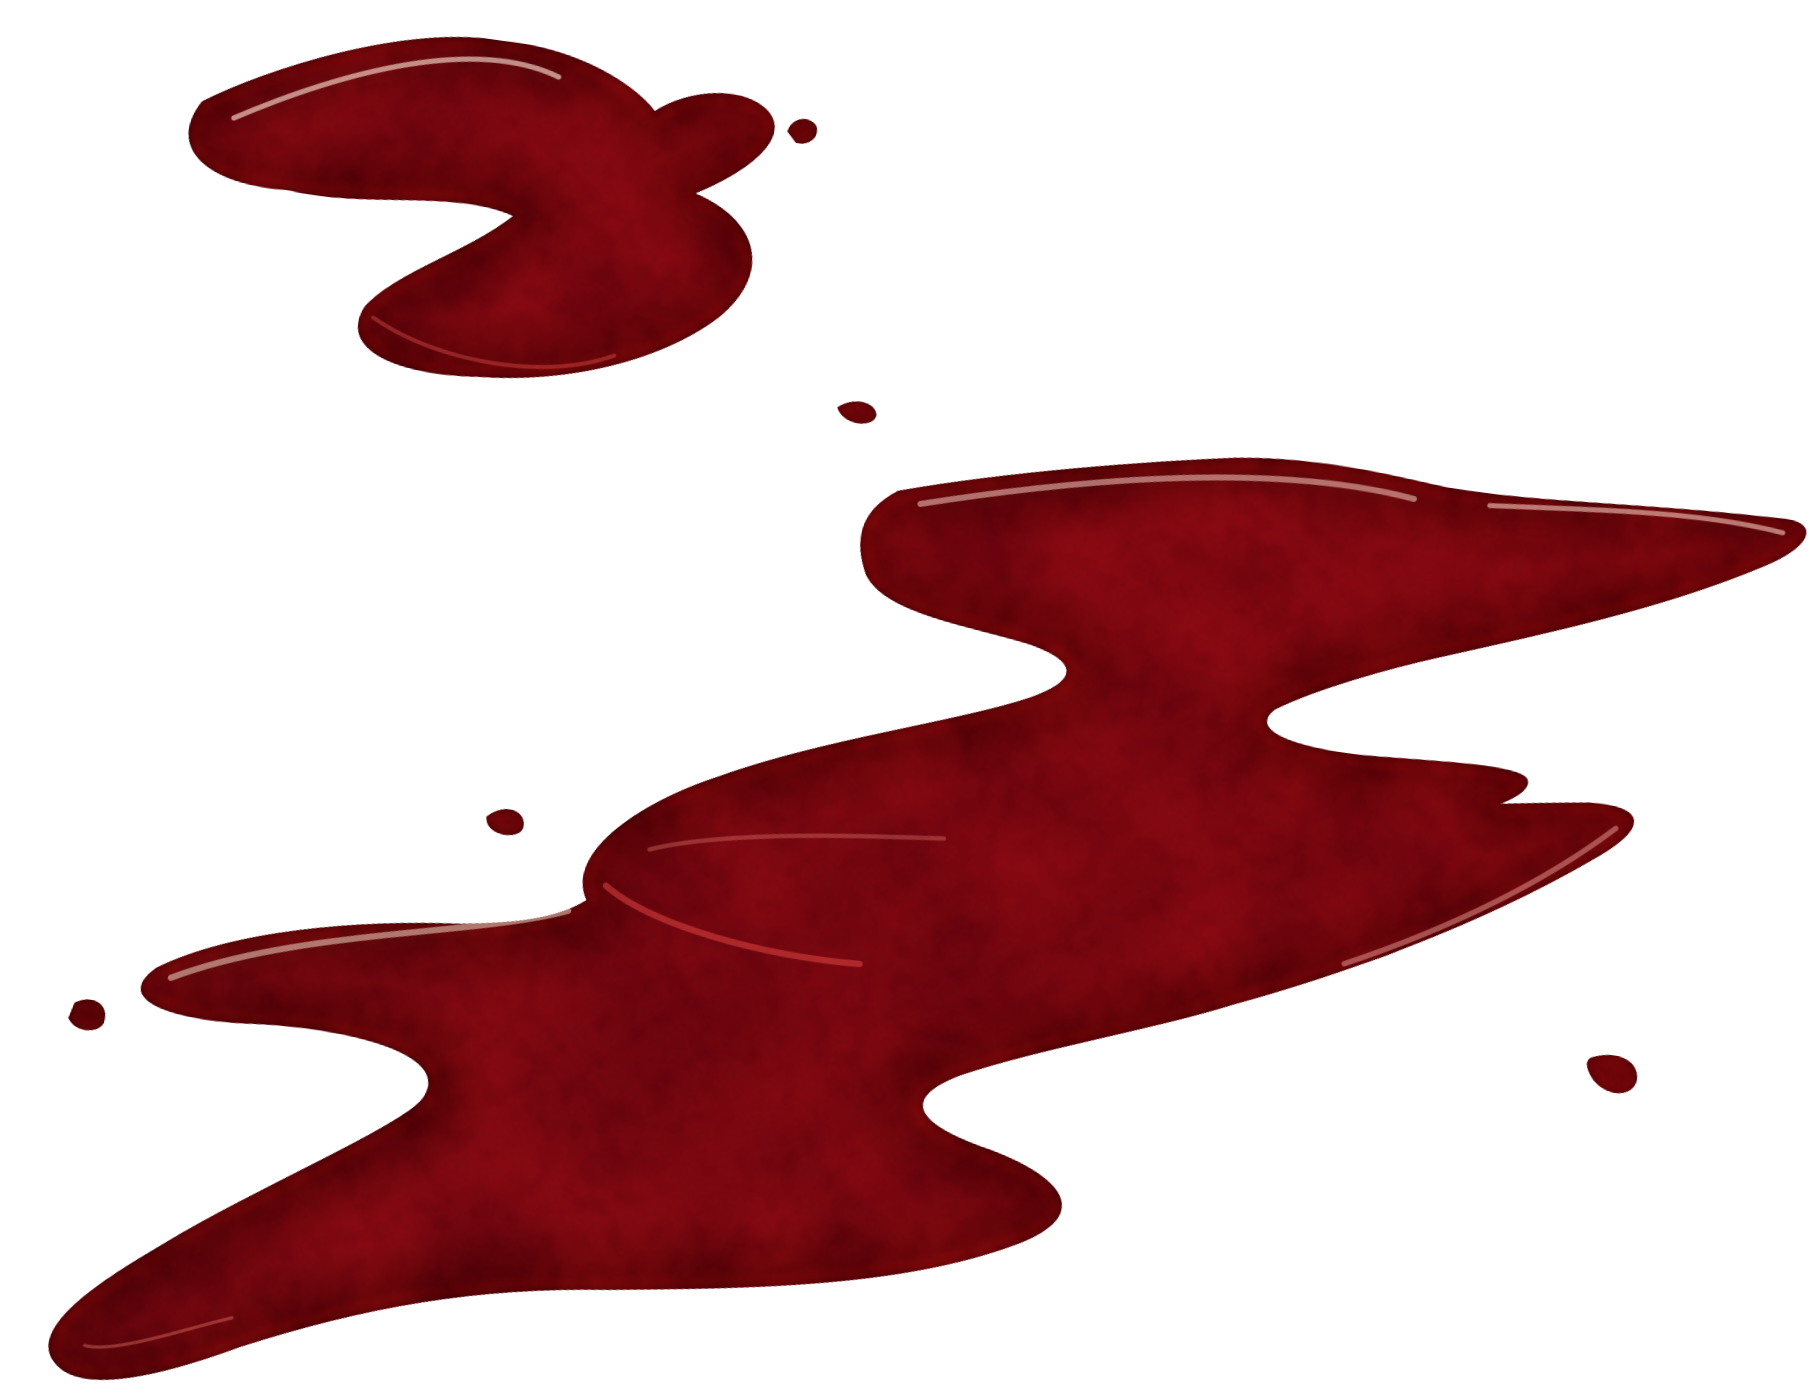
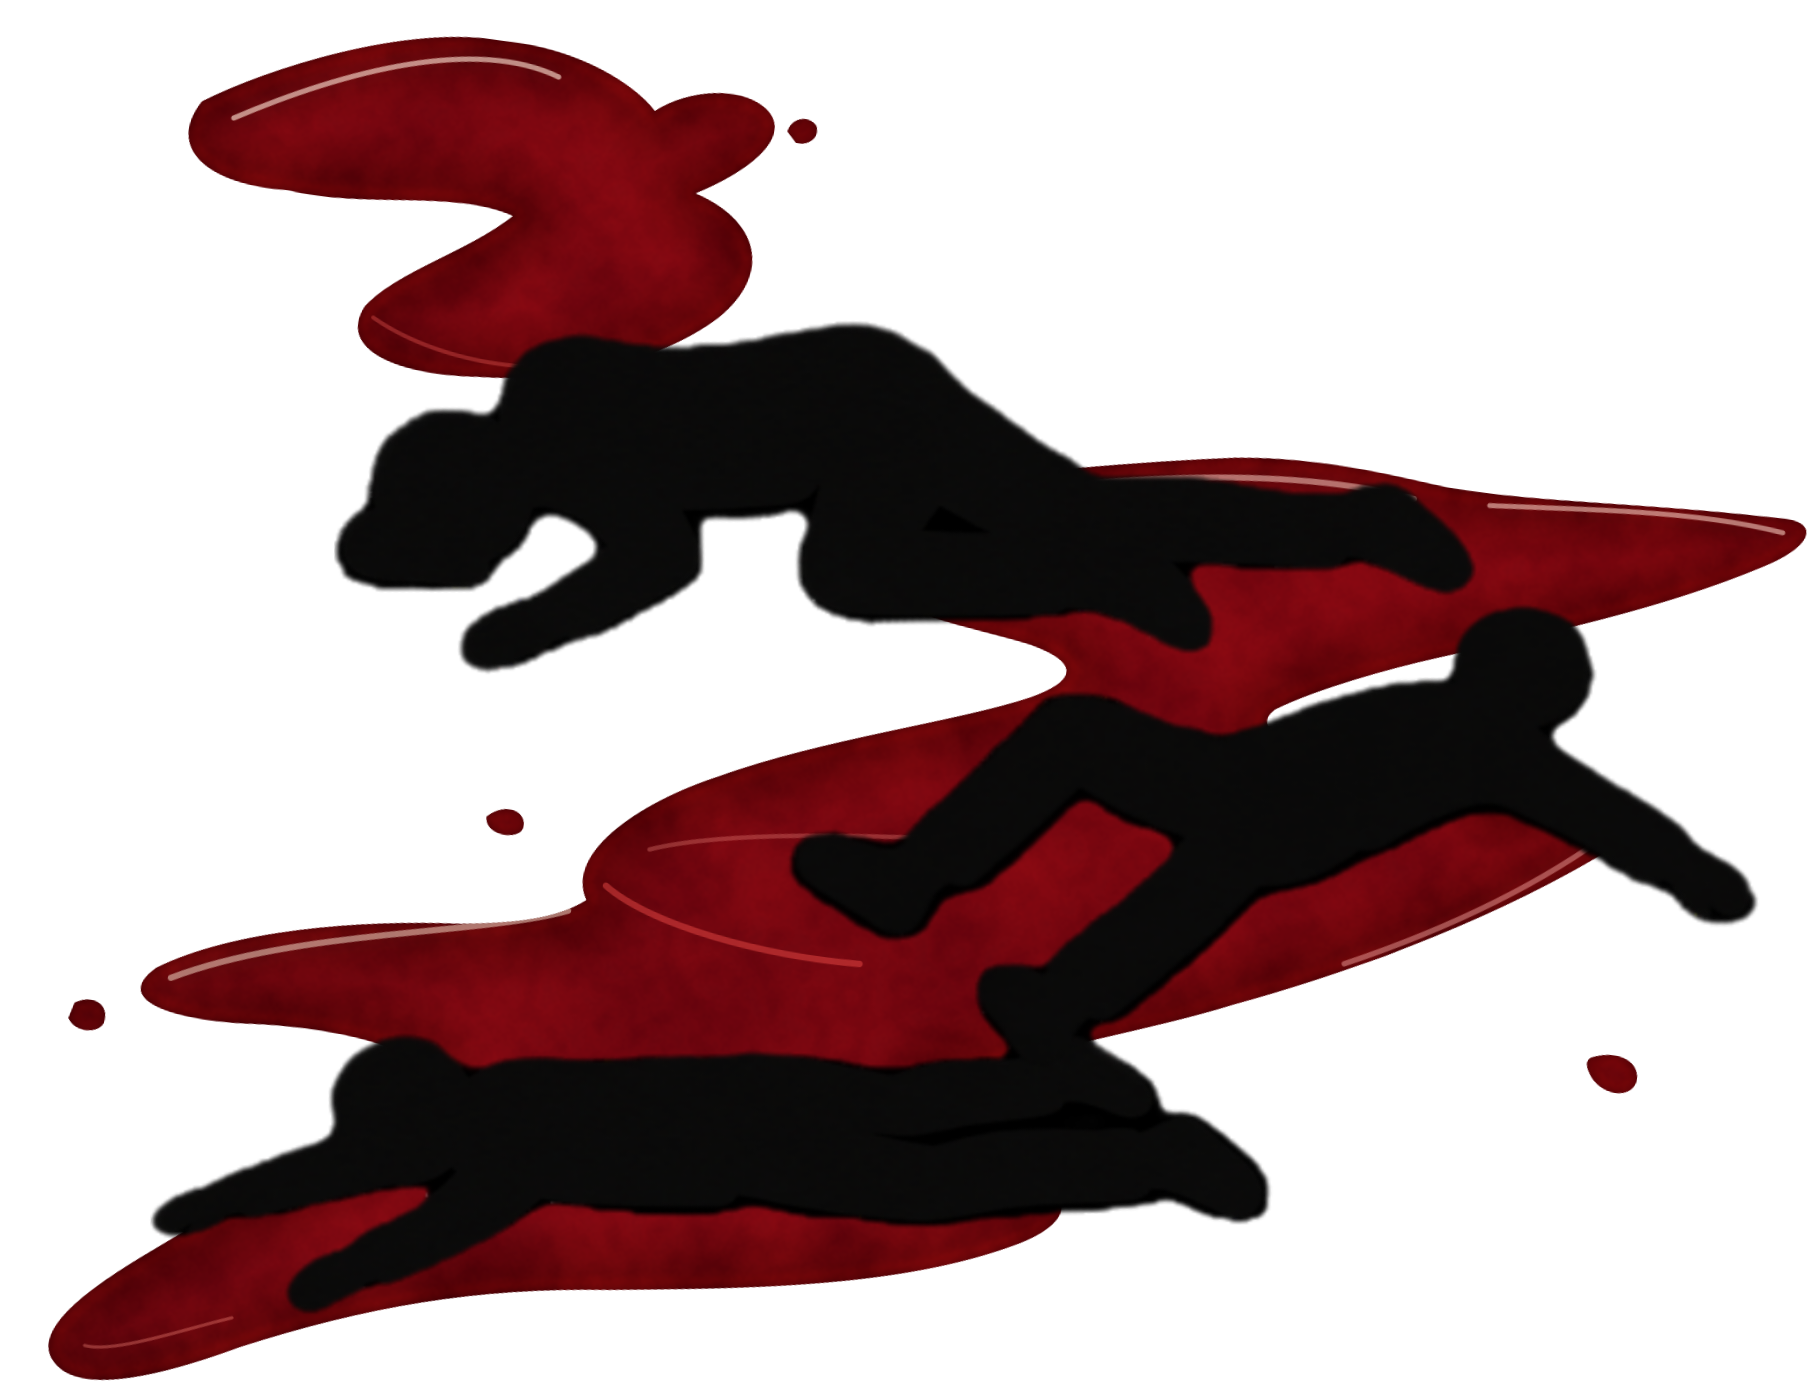
Restore supplied infantry remains and strengthen Dante apparitions in v1.10.69

Changed region(s): [[0.0618, 0.2161, 0.989, 0.9569]]

diff --git a/game/assets/saves.js b/game/assets/saves.js
@@ -2,7 +2,7 @@
 const SAVE_SLOTS=5;
 function saveKey(slot=0){return slot===0?'terha-v1':'terha-slot-'+slot}
 function readSave(slot=0){try{const s=JSON.parse(localStorage.getItem(saveKey(slot)));return s&&Array.isArray(s.units)&&Array.isArray(s.cities)&&[168,181].includes(s.cities.length)?s:null}catch(e){return null}}
-function snapshot(){return{appVersion:'1.10.68',danteExpansionSeeded,unitBalance42Schema:UNIT_BALANCE_42_SCHEMA,defenseSchema:2,campaignPatchSchema:1,aiTransportGrantTurn,shorelineSchema:SHORELINE_SCHEMA,cityPlacementSchema:CITY_PLACEMENT_SCHEMA,cityRosterSchema:CITY_ROSTER_SCHEMA,tierBalanceSchema:TIER_BALANCE_SCHEMA,navalSchema:1,missileBases,navalUid,food,foodTurn,industrySchema:INDUSTRY_SCHEMA,oil,strategicResearch,defeatedNotices:[...defeatedNotices],balanceSchema:BALANCE_SCHEMA,ruleSchema:RULE_SCHEMA,diplomacy,unitSchema:UNIT_SCHEMA,savedAt:Date.now(),units,cities,money,tech,turn,player,difficulty,uid,owners:tiles.map(t=>t.owner),cam,activeSlot}}
+function snapshot(){return{appVersion:'1.10.69',danteExpansionSeeded,unitBalance42Schema:UNIT_BALANCE_42_SCHEMA,defenseSchema:2,campaignPatchSchema:1,aiTransportGrantTurn,shorelineSchema:SHORELINE_SCHEMA,cityPlacementSchema:CITY_PLACEMENT_SCHEMA,cityRosterSchema:CITY_ROSTER_SCHEMA,tierBalanceSchema:TIER_BALANCE_SCHEMA,navalSchema:1,missileBases,navalUid,food,foodTurn,industrySchema:INDUSTRY_SCHEMA,oil,strategicResearch,defeatedNotices:[...defeatedNotices],balanceSchema:BALANCE_SCHEMA,ruleSchema:RULE_SCHEMA,diplomacy,unitSchema:UNIT_SCHEMA,savedAt:Date.now(),units,cities,money,tech,turn,player,difficulty,uid,owners:tiles.map(t=>t.owner),cam,activeSlot}}
 function save(slot=0){if(!Number.isInteger(slot)||slot<0||slot>SAVE_SLOTS)return false;try{if(slot>0)activeSlot=slot;localStorage.setItem(saveKey(slot),JSON.stringify(snapshot()));return true}catch(e){toast('저장 공간이 부족하거나 저장할 수 없습니다');return false}}
 function load(slot=0){const s=readSave(slot);if(!s||!Array.isArray(s.owners)||s.owners.length!==tiles.length)return false;try{({units,cities,money,tech,turn,player,difficulty,uid,cam}=s);activeSlot=slot||s.activeSlot||0;tiles.forEach((t,i)=>{t.owner=s.owners[i];t.city=-1});cities.forEach(q=>tiles[q.tile].city=q.id);migrateArmy(s);selected=null;panelOpen=false;airTarget=null;aimMotions.clear();fireMotions.clear();fx=[];moving=[];reach.clear();started=true;busy=false;menuMode=false;refreshSelection();$('modal').style.display='none';updateHUD();if(slot>0)save();toast(slot>0?'슬롯 '+slot+' 작전을 불러왔습니다':'자동 저장된 작전을 불러왔습니다');return true}catch(e){return false}}
 function migrateLegacySaves(){try{if(localStorage.getItem('terha-slots-migrated'))return;const s=readSave();if(s&&!readSave(1)){s.savedAt=s.savedAt||Date.now();localStorage.setItem(saveKey(1),JSON.stringify(s))}localStorage.setItem('terha-slots-migrated','1')}catch(e){}}

diff --git a/game/assets/ambience.js b/game/assets/ambience.js
@@ -48,5 +48,5 @@ let danteGhostState={alpha:0,last:null,clock:0,checked:-Infinity,city:null,near:
 function resetDanteGhosts(){danteGhostState={alpha:0,last:null,clock:0,checked:-Infinity,city:null,near:false}}
 function danteThreat(){const city=cities.find(q=>q.origin===1&&q.capital);return{city,near:!!city&&units.some(u=>u.hp>0&&!u.carriedBy&&atWar(1,u.f)&&distance(city.tile,u.tile)<=3)}}
 function updateDanteGhosts(now){const state=danteGhostState,dt=state.last===null?0:Math.max(0,Math.min(100,now-state.last));state.last=now;state.clock+=dt;if(now<state.checked||now-state.checked>=150){const threat=danteThreat();state.city=threat.city;state.near=threat.near;state.checked=now}state.alpha=Math.max(0,Math.min(1,state.alpha+(started&&state.near?dt/3500:-dt/1800)));return state}
-function drawDanteGhost(p,side){if(!danteGhostArt.idleReady)return;const h=S*3,w=h*danteGhostArt.idle.naturalWidth/danteGhostArt.idle.naturalHeight;ctx.save();ctx.globalAlpha=danteGhostState.alpha*(.21+.28*(.5+.5*Math.sin(danteGhostState.clock*.0018)));ctx.translate(p.x,p.y);ctx.scale(side<0?1:-1,1);ctx.drawImage(danteGhostArt.idle,-w/2,-h*.82,w,h);ctx.restore()}
-const danteAmbientScene=addAmbientScene;addAmbientScene=function(scene,now){danteAmbientScene(scene,now);const state=updateDanteGhosts(now);if(!state.city||state.alpha<=0)return;const t=tiles[state.city.tile];for(const side of [-1,1]){const i=index(t.x+side,t.y);if(i<0)continue;const p=pxy(i);scene.push({kind:'ghost',id:20+side,p,paint:()=>drawDanteGhost(p,side)})}};
+function drawDanteGhost(p,side){if(!danteGhostArt.idleReady)return;const h=S*3,w=h*danteGhostArt.idle.naturalWidth/danteGhostArt.idle.naturalHeight;ctx.save();ctx.globalAlpha=danteGhostState.alpha*(.30+.35*(.5+.5*Math.sin(danteGhostState.clock*.0018)));ctx.translate(p.x,p.y);ctx.scale(side<0?1:-1,1);ctx.drawImage(danteGhostArt.idle,-w/2,-h*.82,w,h);ctx.restore()}
+const danteAmbientScene=addAmbientScene;addAmbientScene=function(scene,now){danteAmbientScene(scene,now);const state=updateDanteGhosts(now);if(!state.city||state.alpha<=0)return;const t=tiles[state.city.tile];for(const side of [-1,1]){const i=index(t.x+side,t.y);if(i<0)continue;const p=pxy(i);scene.push({kind:'ghost',id:20+side,p:{x:p.x,y:p.y+.02},paint:()=>drawDanteGhost(p,side)})}};

diff --git a/game/assets/aftermath-carrier.js b/game/assets/aftermath-carrier.js
@@ -1,6 +1,6 @@
 'use strict';
 const infantryRemainsArt=loadBaekArt('infantry-remains.png'),baekCarrierArt=loadBaekArt('baek-carrier.png');
-function drawInfantryRemains(e,t){if(!infantryRemainsArt.idleReady)return;ctx.save();ctx.globalAlpha=Math.max(0,1-t);ctx.drawImage(infantryRemainsArt.idle,e.x-26,e.y-16,52,52*1393/1812);ctx.restore()}
+function drawInfantryRemains(e,t){if(!infantryRemainsArt.idleReady)return;ctx.save();ctx.globalAlpha=Math.min(1,Math.max(0,(1-t)/.55));const w=64,h=w*infantryRemainsArt.idle.naturalHeight/infantryRemainsArt.idle.naturalWidth;ctx.drawImage(infantryRemainsArt.idle,e.x-w/2,e.y-h/2,w,h);ctx.restore()}
 const remainsKill=kill;kill=function(u){if(!units.includes(u))return;const show=TYPES[u.type]?.branch==='infantry'&&!u.carriedBy&&tiles[u.tile].owner>=0,p=pxy(u.tile),before=fx.length;const result=remainsKill(u);if(show){fx=fx.slice(0,before).concat(fx.slice(before).filter(e=>e.kind!=='wreck'));fx.push({kind:'infantryRemains',x:p.x,y:p.y,start:performance.now(),duration:3000})}return result};
 function isBaekCarrier(u){return u.f===0&&u.type===25}
 function baekCarrierFacing(u){return u.carrierFacing===-1?-1:u.carrierFacing===1?1:Number.isFinite(u.angle)&&Math.cos(u.angle)<0?-1:1}

diff --git a/game/assets/app-shell.js b/game/assets/app-shell.js
@@ -1,5 +1,5 @@
 'use strict';
-const APP_VERSION='1.10.68',APP_SETTINGS_KEY='terha-settings',APP_RECORDS_KEY='terha-conquests';
+const APP_VERSION='1.10.69',APP_SETTINGS_KEY='terha-settings',APP_RECORDS_KEY='terha-conquests';
 function readAppJSON(key,fallback){try{return JSON.parse(localStorage.getItem(key))??fallback}catch{return fallback}}
 const savedAppSettings=readAppJSON(APP_SETTINGS_KEY,{});
 const appSettings={music:Number.isFinite(savedAppSettings.music)?Math.min(1,Math.max(0,savedAppSettings.music)):.65,effects:Number.isFinite(savedAppSettings.effects)?Math.min(1,Math.max(0,savedAppSettings.effects)):1,language:savedAppSettings.language==='en'?'en':'ko'};

diff --git a/build.py b/build.py
@@ -2,7 +2,7 @@
 """Repackage the retained Android shell with current game assets and original signing key."""
 import pathlib,zipfile,struct,subprocess,os,urllib.request
 ROOT=pathlib.Path(__file__).resolve().parent;os.chdir(ROOT)
-VERSION='1.10.68';CODE=112
+VERSION='1.10.69';CODE=113
 T=ROOT/'tools';T.mkdir(exist_ok=True)
 for name,url in [('ecj.jar','https://repo.maven.apache.org/maven2/org/eclipse/jdt/ecj/3.33.0/ecj-3.33.0.jar'),('apksig.jar','https://repo.maven.apache.org/maven2/com/android/tools/build/apksig/2.3.0/apksig-2.3.0.jar')]:
  if not (T/name).exists():urllib.request.urlretrieve(url,T/name)

diff --git a/README-ko.md b/README-ko.md
@@ -1,3 +1,8 @@
+## v1.10.69 수정
+
+- 보병 사망 이미지를 첨부 원본(시신 실루엣 포함)으로 교체하고 표시 크기와 초반 불투명도를 보강했습니다.
+- 단테스시티 양옆 1타일 위치의 귀신 2개는 높이 3타일이며, 3타일 이내 적 접근 시 서서히 나타나 30~65% 불투명도로 점멸합니다. 원래 단테 기준 적 판정은 함락 뒤에도 유지되며 적이 벗어나면 사라집니다.
+
 # Terha Conquest v1.10.68
 
 - 국가 선택과 정복 기록을 전체화면으로 표시합니다. 국가 선택은 테르하 전체지도 배경과 기존 국가·난이도·시작·저장·이어하기 버튼을 사용합니다.

diff --git a/README.md b/README.md
@@ -1,13 +1,13 @@
 # Terha Conquest
 
-Private development repository. Current baseline: **v1.10.68**, Android versionCode **112**.
+Private development repository. Current baseline: **v1.10.69**, Android versionCode **112**.
 
 ## Cloud setup
 
 Use Python 3 and Java 17. All game artwork, audio, fonts, the Android shell, signing files and Java build dependencies are included.
 
 - Build the update APK: `python3 build.py`
-- Output: `deliverables/Terha-Conquest-v1.10.68.apk`
+- Output: `deliverables/Terha-Conquest-v1.10.69.apk`
 - Install QA dependency: `npm install`
 - Game regression checks: `npm test`
 - Android shell checks: `python3 qa/verify-native.py`

diff --git a/AGENTS.md b/AGENTS.md
@@ -1,6 +1,6 @@
 # Terha Conquest project instructions
 
-The current baseline is v1.10.68. Preserve existing save compatibility, faction/type IDs, geography and Android update identity unless the task changes them.
+The current baseline is v1.10.69. Preserve existing save compatibility, faction/type IDs, geography and Android update identity unless the task changes them.
 
 - Edit the game under game/assets; index.html script order matters and bootstrap.js must be last.
 - Build with Python 3 and Java 17 using python3 build.py. The original Android shell, build JARs and signing files are under android/ and tools/.
